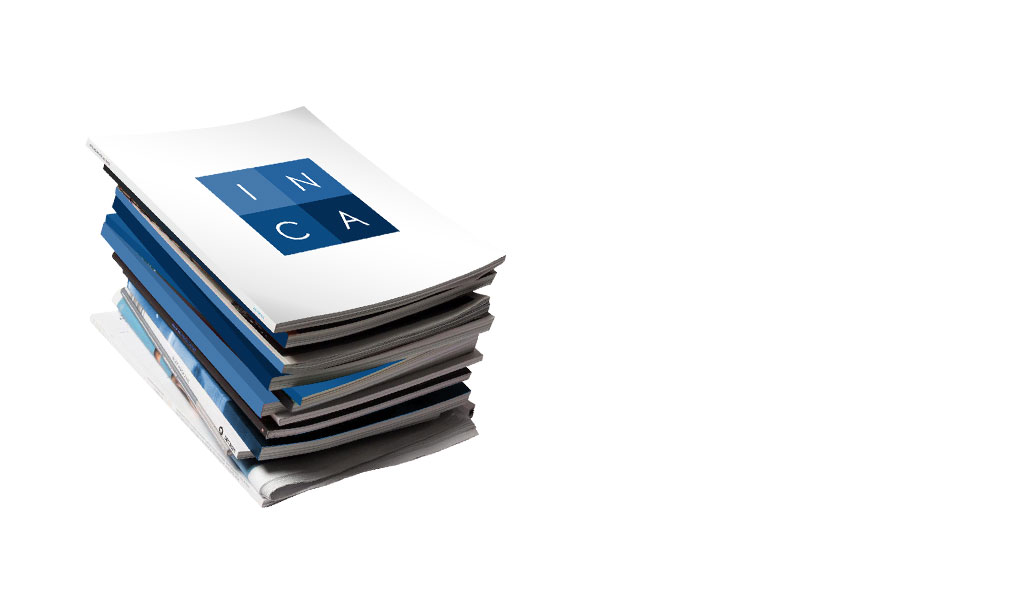
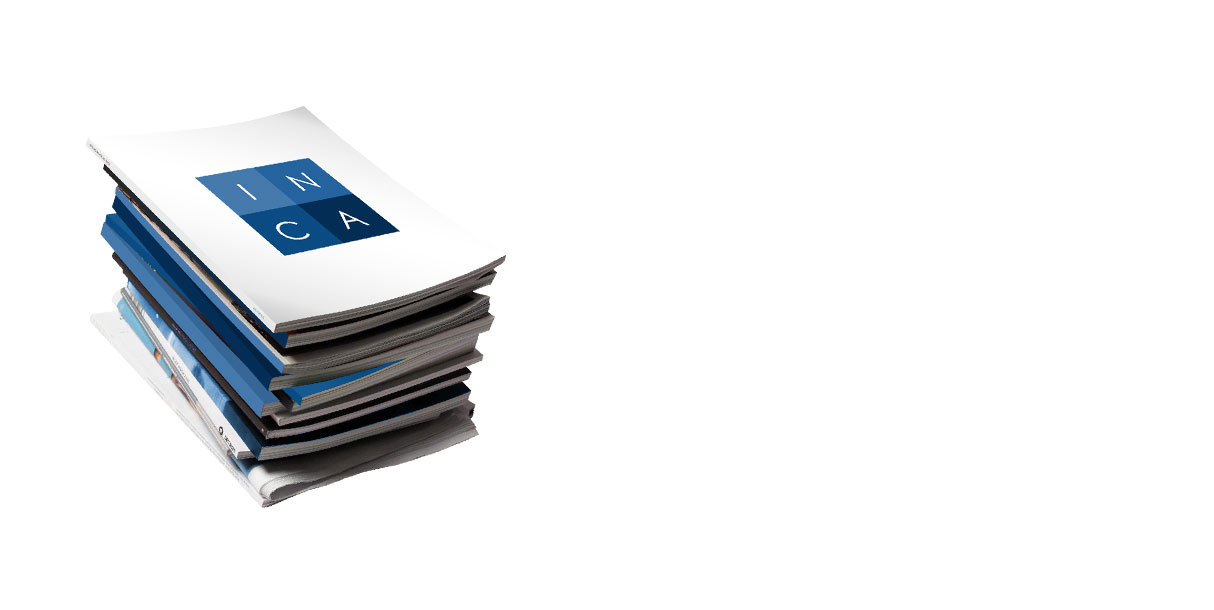
home layouts

Changed region(s): [[0.062, 0.218, 0.4961, 0.841], [0.2171, 0.1557, 0.3101, 0.218]]

diff --git a/styles/inca.less b/styles/inca.less
@@ -296,7 +296,7 @@ p > a:first-child {
         margin-right: auto;
     }
 
-    .tag-right & {
+    .tag-newsletter & {
         max-width: 505px;
         margin-left: auto;
         margin-right: auto;
@@ -315,8 +315,8 @@ p > a:first-child {
     padding-bottom: 60%;
 }
 
-.tag-right {
-    background-position: bottom left;
+.tag-newsletter {
+    background-position: bottom center;
     background-size: contain;
     padding-bottom: 60%;
 }
@@ -354,8 +354,12 @@ p > a:first-child {
 
         .tag-center &,
         .tag-left &,
-        .tag-right & {
+        .tag-newsletter & {
             max-width: 1214px;
+        }
+
+        .tag-newsletter & {
+            float: none;
         }
 
         .tag-full-width & {
@@ -391,11 +395,11 @@ p > a:first-child {
         margin-right: 0;
     }
 
-    .tag-right .section__title,
-    .section.tag-right .sqs-layout {
-        width: 505px;
+    .tag-newsletter .section__title,
+    .section.tag-newsletter .sqs-layout {
+        width: 440px;
         margin-left: 0;
-        margin-right: 0;
+        margin-right: 86px;
         float: right;
         clear: right;
     }
